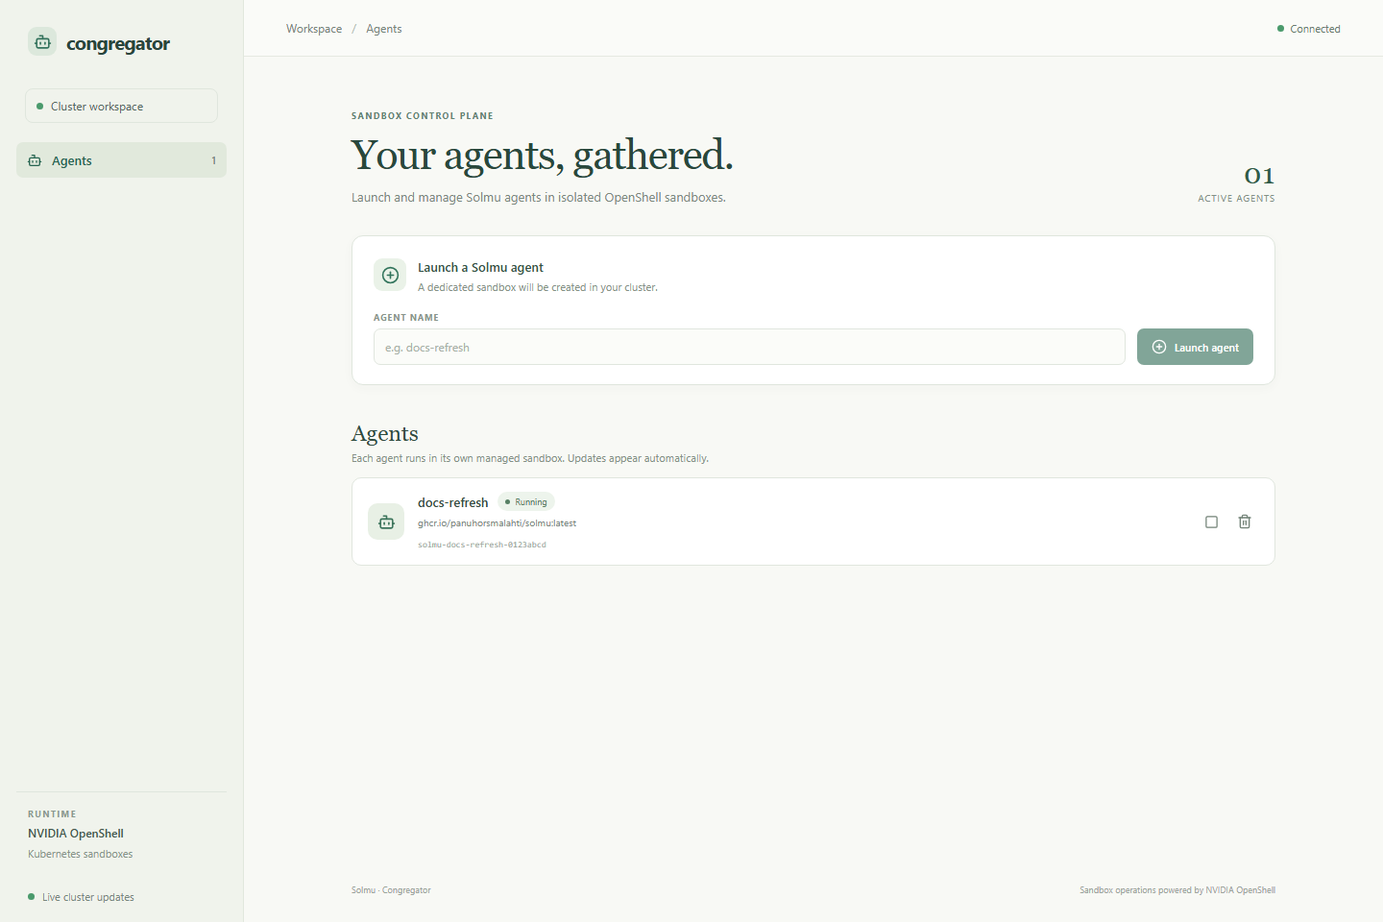
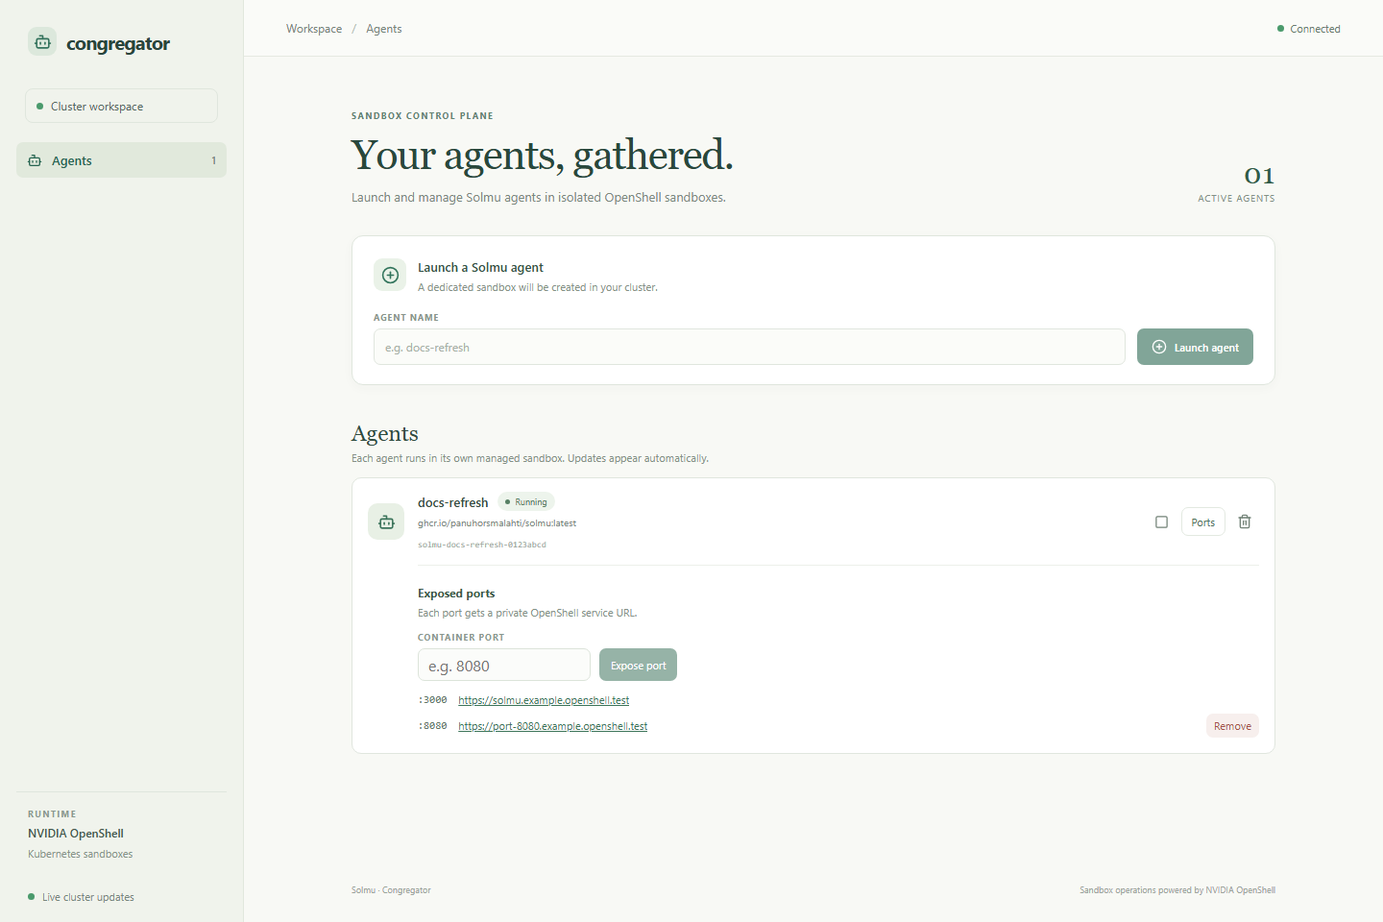
Add sandbox port ingress controls to Congregator

Changed region(s): [[0.3125, 0.625, 0.5, 0.8125], [0.875, 0.7812, 0.9062, 0.8125], [0.8438, 0.5625, 0.875, 0.5938]]

diff --git a/cloud/congregator/web/src/style.css b/cloud/congregator/web/src/style.css
@@ -1,2 +1,3 @@
 :root{font-family:Inter,"Segoe UI",sans-serif;color:#253a34;background:#f8f9f5;font-synthesis:none;font-optical-sizing:auto}*{box-sizing:border-box}body{margin:0;min-width:720px}button,input{font:inherit}button{cursor:pointer}.shell{height:100dvh;display:flex;overflow:hidden}.sidebar{width:254px;background:#f0f3ec;border-right:1px solid #e1e7dd;padding:28px 17px 19px;display:flex;flex-direction:column;flex-shrink:0}.brand{display:flex;align-items:center;gap:10px;padding:0 12px;color:#29453b;text-decoration:none;font-size:20px;font-weight:650;letter-spacing:-.8px}.brand-icon{width:30px;height:30px;display:grid;place-items:center;border-radius:9px;background:#dce8dc;color:#34735d}.workspace{margin:34px 9px 20px;padding:9px 11px;border:1px solid #dfe6dd;border-radius:8px;color:#54675d;font-size:12px;display:flex;align-items:center;gap:8px}.workspace-dot,.live-dot{width:7px;height:7px;border-radius:50%;background:#4a9a6c;display:inline-block}.sidebar nav{display:grid;gap:4px}.sidebar nav a{height:37px;padding:0 11px;border-radius:7px;display:flex;align-items:center;gap:10px;color:#66776c;text-decoration:none;font-size:13px}.sidebar nav .nav-active{background:#e1e9dc;color:#276551;font-weight:600}.nav-count{margin-left:auto;font-size:11px;color:#718076}.side-note{margin-top:auto;padding:16px 12px;border-top:1px solid #dfe6dd;display:grid;gap:6px}.side-label,.eyebrow{font-size:9px;letter-spacing:1.4px;font-weight:700;color:#8a988e}.runtime-name{font-size:12px;color:#43574c;font-weight:550}.runtime-detail{font-size:11px;color:#879389}.sidebar-footer{padding:14px 12px 0;display:flex;align-items:center;gap:8px;color:#78877d;font-size:11px}.main{flex:1;min-width:0;overflow:auto}.topbar{height:59px;padding:0 44px;border-bottom:1px solid #e5e9e1;display:flex;align-items:center;justify-content:space-between;background:#fafbf8}.crumb{font-size:12px;color:#76857a}.crumb span{padding:0 7px;color:#b2bbb3}.top-status{font-size:11px;color:#697a6e;display:flex;align-items:center;gap:7px}.content{max-width:1050px;padding:55px 44px 28px;margin:0 auto;min-height:calc(100% - 59px);display:flex;flex-direction:column}.heading-row{display:flex;align-items:end;justify-content:space-between;margin-bottom:32px}.eyebrow{margin:0 0 12px;color:#628372}.heading-row h1{font:400 43px/1.1 Georgia,serif;letter-spacing:-1.3px;color:#29483c;margin:0}.lede{font-size:13px;color:#7b897e;margin:11px 0 0}.agent-count{display:grid;text-align:right;gap:1px;color:#829086;font-size:10px;text-transform:uppercase;letter-spacing:.8px}.agent-count strong{font:400 30px Georgia,serif;color:#315c49}.launch-card{border:1px solid #dfe6dd;border-radius:12px;background:#fff;padding:20px 22px;margin-bottom:37px;box-shadow:0 3px 12px #314e3b08}.launch-copy{display:flex;gap:12px;align-items:center;margin-bottom:18px}.launch-icon{width:34px;height:34px;border-radius:9px;background:#eaf2e8;color:#32745c;display:grid;place-items:center}.launch-copy strong{font-size:13px;font-weight:600;color:#345346}.launch-copy p{margin:4px 0 0;font-size:11px;color:#869287}.launch-fields{display:grid;grid-template-columns:minmax(180px,1fr) auto;gap:12px;align-items:end}.launch-fields label{display:grid;gap:6px}.launch-fields label>span{font-size:9px;color:#89958b;font-weight:700;letter-spacing:.9px}.launch-fields small{font-size:8px;color:#9ba69d;font-weight:500;letter-spacing:.2px}.launch-fields input{width:100%;height:38px;border:1px solid #e0e6de;border-radius:7px;background:#fbfcf9;padding:0 11px;outline:none;color:#364b40;font-size:12px}.launch-fields input:focus{border-color:#88aa92;box-shadow:0 0 0 3px #4d8c6314}.launch-fields input::placeholder{color:#a7b0a7}.launch-button{height:38px;padding:0 15px;border:0;border-radius:7px;background:#2e6b54;color:white;display:flex;align-items:center;justify-content:center;gap:8px;font-size:11px;font-weight:600;white-space:nowrap}.launch-button:hover{background:#245a46}.launch-button:disabled{opacity:.6;cursor:default}.section-heading{display:flex;justify-content:space-between;align-items:center;margin-bottom:13px}.section-heading h2{font:400 23px Georgia,serif;margin:0;color:#304c40}.section-heading p{font-size:11px;color:#849086;margin:5px 0 0}.icon-button{width:30px;height:30px;border:1px solid #e1e7df;background:transparent;border-radius:7px;color:#89968c}.icon-button:disabled{cursor:default}.error-banner{padding:11px 14px;margin-bottom:12px;border:1px solid #f1d1c9;background:#fff6f3;border-radius:8px;color:#a34232;font-size:12px}.loading,.empty{flex:1;min-height:240px;display:grid;align-content:center;justify-items:center;text-align:center;color:#7c8a7e;font-size:12px;gap:10px}.empty-icon{width:50px;height:50px;border-radius:15px;background:#e9efe6;color:#6e947b;display:grid;place-items:center}.empty h3{font:400 20px Georgia,serif;color:#395748;margin:2px 0 0}.empty p{max-width:310px;line-height:1.6;margin:0;color:#859187}.agent-list{display:grid;gap:9px}.agent-card{min-height:78px;padding:14px 16px;border:1px solid #e0e6de;border-radius:10px;background:white;display:flex;align-items:center;gap:14px}.agent-mark{width:38px;height:38px;flex:none;display:grid;place-items:center;border-radius:10px;background:#e8f0e5;color:#3b745b}.agent-info{min-width:0;flex:1}.agent-title{display:flex;align-items:center;gap:10px}.agent-title h3{margin:0;font-size:13px;font-weight:600;color:#334b3e}.agent-info p{margin:5px 0 2px;color:#79877c;font-size:10px;overflow:hidden;text-overflow:ellipsis;white-space:nowrap}.agent-info small{color:#a1aaa1;font-size:9px;font-family:ui-monospace,monospace}.status{display:inline-flex;align-items:center;gap:5px;padding:4px 8px;border-radius:99px;background:#edf4ec;color:#568064;font-size:9px}.status i{width:5px;height:5px;border-radius:50%;background:currentColor}.status-stopped{background:#f0f1ef;color:#7b847d}.status-error{background:#fbefed;color:#ba5748}.status-provisioning,.status-starting{background:#fdf4e5;color:#ae823c}.status-deleting{background:#f4effb;color:#8873ac}.agent-actions{display:flex;gap:5px}.agent-actions button{width:30px;height:30px;display:grid;place-items:center;border:1px solid transparent;border-radius:7px;background:transparent;color:#728277}.agent-actions button:hover{background:#eff4ec;color:#2f6a51}.agent-actions .delete-action:hover{background:#fff1ef;color:#b34d42}.content-footer{margin-top:auto;padding-top:31px;display:flex;justify-content:space-between;color:#9ba59b;font-size:9px}
 @keyframes spin{to{transform:rotate(360deg)}}.spin{animation:spin 1s linear infinite}@media(max-width:900px){.sidebar{width:210px}.content{padding-left:28px;padding-right:28px}.topbar{padding:0 28px}.launch-fields{grid-template-columns:1fr auto}.launch-button{grid-column:1/-1;width:max-content}.heading-row h1{font-size:36px}}@media(max-width:680px){body{min-width:0}.sidebar{width:63px;padding-left:10px;padding-right:10px}.brand{padding:0;justify-content:center;font-size:0}.brand-icon{width:34px;height:34px}.workspace,.sidebar nav a:not(.nav-active),.nav-active svg,.nav-count,.side-note,.sidebar-footer{display:none}.sidebar nav{margin-top:35px}.sidebar nav .nav-active{font-size:0;justify-content:center;padding:0}.sidebar nav .nav-active svg{display:block}.content{padding:36px 18px 20px}.topbar{padding:0 18px}.heading-row{align-items:start}.heading-row h1{font-size:31px}.agent-count{font-size:8px}.agent-count strong{font-size:23px}.launch-card{padding:17px}.launch-fields{grid-template-columns:1fr}.launch-button{grid-column:auto;width:100%}.content-footer{gap:15px;line-height:1.5}.content-footer span:last-child{text-align:right}}
+ .agent-card{flex-wrap:wrap}.agent-actions .ingress-toggle{width:auto;padding:0 10px;border-color:#e3e9e1;color:#4d6d58;font-size:11px}.ingress-panel{width:100%;margin:0 0 0 52px;padding:16px 0 2px;border-top:1px solid #edf0ea;display:grid;gap:12px}.ingress-panel>div strong{font-size:12px;color:#3c5949}.ingress-panel>div p{margin:4px 0 0;color:#849187;font-size:11px}.ingress-panel form{display:flex;align-items:end;gap:9px}.ingress-panel label{display:grid;gap:6px}.ingress-panel label span{font-size:9px;letter-spacing:1px;color:#8a988e;font-weight:700}.ingress-panel input{height:34px;width:180px;border:1px solid #dce4da;border-radius:7px;padding:0 10px;color:#354e40;background:#fbfcfa}.ingress-panel form button,.ingress-panel li button{height:34px;border:0;border-radius:7px;padding:0 12px;background:#2f6a51;color:white;font-size:11px}.ingress-panel form button:disabled{opacity:.5;cursor:default}.ingress-panel ul{list-style:none;padding:0;margin:0;display:grid;gap:7px}.ingress-panel li{display:flex;align-items:center;gap:12px;font-size:11px;color:#64776a}.ingress-panel li>span{font-family:ui-monospace,monospace}.ingress-panel li a{color:#3d755a;overflow:hidden;text-overflow:ellipsis}.ingress-panel li button{height:25px;padding:0 8px;margin-left:auto;background:#f7efed;color:#a65449}

diff --git a/cloud/congregator/web/src/App.tsx b/cloud/congregator/web/src/App.tsx
@@ -2,6 +2,7 @@ import { type FormEvent, useCallback, useEffect, useState } from 'react'
 import { Bot, CirclePlus, LoaderCircle, Play, Square, Trash2 } from 'lucide-react'
 
 type Agent = { id: string; name: string; status: string; image: string }
+type Ingress = { name: string; port: number; url: string }
 
 async function api<T>(path: string, init?: RequestInit): Promise<T> {
   const response = await fetch(`/api/v1${path}`, {
@@ -22,17 +23,25 @@ export default function App() {
   const [loading, setLoading] = useState(true)
   const [creating, setCreating] = useState(false)
   const [error, setError] = useState('')
+  const [selectedAgent, setSelectedAgent] = useState('')
+  const [ingresses, setIngresses] = useState<Record<string, Ingress[]>>({})
+  const [ports, setPorts] = useState<Record<string, string>>({})
 
   const refresh = useCallback(async () => {
     try {
-      setAgents(await api<Agent[]>('/agents'))
+      const updated = await api<Agent[]>('/agents')
+      setAgents(updated)
+      if (selectedAgent && updated.some(agent => agent.id === selectedAgent)) {
+        const exposed = await api<Ingress[]>(`/agents/${encodeURIComponent(selectedAgent)}/ingresses`)
+        setIngresses(current => ({ ...current, [selectedAgent]: exposed }))
+      }
       setError('')
     } catch (reason) {
       setError(reason instanceof Error ? reason.message : 'Could not connect to Congregator')
     } finally {
       setLoading(false)
     }
-  }, [])
+  }, [selectedAgent])
 
   useEffect(() => {
     void refresh()
@@ -61,9 +70,37 @@ export default function App() {
     setError('')
     try {
       await api(`/agents/${encodeURIComponent(agent.id)}${command === 'delete' ? '' : `/${command}`}`, { method: command === 'delete' ? 'DELETE' : 'POST' })
+      if (command === 'delete' && selectedAgent === agent.id) setSelectedAgent('')
       await refresh()
     } catch (reason) {
       setError(reason instanceof Error ? reason.message : `Could not ${command} the agent`)
+    }
+  }
+
+  async function exposePort(event: FormEvent, agent: Agent) {
+    event.preventDefault()
+    const port = Number(ports[agent.id])
+    if (!Number.isInteger(port) || port < 1 || port > 65535) {
+      setError('Enter a port between 1 and 65535')
+      return
+    }
+    setError('')
+    try {
+      await api<Ingress>(`/agents/${encodeURIComponent(agent.id)}/ingresses`, { method: 'POST', body: JSON.stringify({ port }) })
+      setPorts(current => ({ ...current, [agent.id]: '' }))
+      const exposed = await api<Ingress[]>(`/agents/${encodeURIComponent(agent.id)}/ingresses`)
+      setIngresses(current => ({ ...current, [agent.id]: exposed }))
+    } catch (reason) {
+      setError(reason instanceof Error ? reason.message : 'Could not expose this port')
+    }
+  }
+
+  async function removeIngress(agent: Agent, ingress: Ingress) {
+    try {
+      await api(`/agents/${encodeURIComponent(agent.id)}/ingresses/${encodeURIComponent(ingress.name)}`, { method: 'DELETE' })
+      setIngresses(current => ({ ...current, [agent.id]: current[agent.id]?.filter(item => item.name !== ingress.name) ?? [] }))
+    } catch (reason) {
+      setError(reason instanceof Error ? reason.message : 'Could not remove this ingress')
     }
   }
 
@@ -85,7 +122,12 @@ export default function App() {
         </form>
         <div className="section-heading"><div><h2>Agents</h2><p>Each agent runs in its own managed sandbox. Updates appear automatically.</p></div></div>
         {error && <div className="error-banner" role="alert">{error}</div>}
-        {loading ? <div className="loading"><LoaderCircle className="spin" />Connecting to cluster…</div> : agents.length === 0 ? <div className="empty"><div className="empty-icon"><Bot size={24} /></div><h3>No agents yet</h3><p>Launch your first Solmu agent. It will start in a dedicated OpenShell sandbox.</p></div> : <div className="agent-list">{agents.map(agent => <article className="agent-card" key={agent.id}><div className="agent-mark"><Bot size={19} /></div><div className="agent-info"><div className="agent-title"><h3>{agent.name}</h3><span className={`status status-${agent.status.toLowerCase()}`}><i />{agent.status}</span></div><p>{agent.image}</p><small>{agent.id}</small></div><div className="agent-actions">{agent.status === 'Stopped' ? <button onClick={() => void action(agent, 'start')} title="Start agent" aria-label={`Start ${agent.name}`}><Play size={16} /></button> : <button onClick={() => void action(agent, 'stop')} title="Stop agent" aria-label={`Stop ${agent.name}`}><Square size={15} /></button>}<button className="delete-action" onClick={() => void action(agent, 'delete')} title="Delete agent" aria-label={`Delete ${agent.name}`}><Trash2 size={16} /></button></div></article>)}</div>}
+        {loading ? <div className="loading"><LoaderCircle className="spin" />Connecting to cluster…</div> : agents.length === 0 ? <div className="empty"><div className="empty-icon"><Bot size={24} /></div><h3>No agents yet</h3><p>Launch your first Solmu agent. It will start in a dedicated OpenShell sandbox.</p></div> : <div className="agent-list">{agents.map(agent => <article className="agent-card" key={agent.id}>
+          <div className="agent-mark"><Bot size={19} /></div>
+          <div className="agent-info"><div className="agent-title"><h3>{agent.name}</h3><span className={`status status-${agent.status.toLowerCase()}`}><i />{agent.status}</span></div><p>{agent.image}</p><small>{agent.id}</small></div>
+          <div className="agent-actions">{agent.status === 'Stopped' ? <button onClick={() => void action(agent, 'start')} title="Start agent" aria-label={`Start ${agent.name}`}><Play size={16} /></button> : <button onClick={() => void action(agent, 'stop')} title="Stop agent" aria-label={`Stop ${agent.name}`}><Square size={15} /></button>}<button className="ingress-toggle" onClick={() => setSelectedAgent(current => current === agent.id ? '' : agent.id)} aria-expanded={selectedAgent === agent.id} aria-label={`Manage ingresses for ${agent.name}`}>Ports</button><button className="delete-action" onClick={() => void action(agent, 'delete')} title="Delete agent" aria-label={`Delete ${agent.name}`}><Trash2 size={16} /></button></div>
+          {selectedAgent === agent.id && <div className="ingress-panel"><div><strong>Exposed ports</strong><p>Each port gets a private OpenShell service URL.</p></div><form onSubmit={event => void exposePort(event, agent)}><label><span>CONTAINER PORT</span><input inputMode="numeric" aria-label={`Port for ${agent.name}`} value={ports[agent.id] ?? ''} onChange={event => setPorts(current => ({ ...current, [agent.id]: event.target.value }))} placeholder="e.g. 8080" /></label><button disabled={!ports[agent.id]?.trim()}>Expose port</button></form><ul>{(ingresses[agent.id] ?? []).map(ingress => <li key={ingress.name}><span>:{ingress.port}</span><a href={ingress.url} target="_blank" rel="noreferrer">{ingress.url}</a>{ingress.name !== 'solmu' && <button onClick={() => void removeIngress(agent, ingress)} aria-label={`Remove port ${ingress.port}`}>Remove</button>}</li>)}</ul></div>}
+        </article>)}</div>}
         <footer className="content-footer"><span>Solmu · Congregator</span><span>Sandbox operations powered by NVIDIA OpenShell</span></footer>
       </section>
     </main>

diff --git a/e2e/congregator/agents.spec.ts b/e2e/congregator/agents.spec.ts
@@ -9,7 +9,7 @@ test('launch, stop, start, and delete a Solmu sandbox', async ({ page }) => {
   await page.route('**/api/v1/agents**', async route => {
     const request = route.request()
     const path = new URL(request.url()).pathname
-    if (request.method() === 'GET') return route.fulfill({ json: agents })
+    if (request.method() === 'GET' && path === '/api/v1/agents') return route.fulfill({ json: agents })
     if (request.method() === 'POST' && path === '/api/v1/agents') {
       const body = request.postDataJSON()
       operations.push(`create:${body.name}`)
@@ -40,13 +40,6 @@ test('launch, stop, start, and delete a Solmu sandbox', async ({ page }) => {
   await page.getByRole('button', { name: 'Launch agent' }).click()
   await expect(page.getByRole('heading', { name: 'docs-refresh' })).toBeVisible()
   await expect(page.getByText('Running')).toBeVisible()
-
-  if (process.env.SOLMU_CAPTURE_SCREENSHOTS) {
-    await mkdir('docs/screenshots', { recursive: true })
-    await page.setViewportSize({ width: 1440, height: 960 })
-    await page.screenshot({ path: 'docs/screenshots/congregator.png', fullPage: true })
-  }
-
   await page.getByRole('button', { name: 'Stop docs-refresh' }).click()
   await expect(page.getByText('Stopped')).toBeVisible()
   await page.getByRole('button', { name: 'Start docs-refresh' }).click()
@@ -54,6 +47,49 @@ test('launch, stop, start, and delete a Solmu sandbox', async ({ page }) => {
   await page.getByRole('button', { name: 'Delete docs-refresh' }).click()
   await expect(page.getByText('No agents yet')).toBeVisible()
   expect(operations).toEqual(['create:docs-refresh', 'stop', 'start', 'delete'])
+})
+
+test('expose and remove an agent port with its gateway ingress URL', async ({ page }) => {
+  const agent = { ...readyAgent }
+  let exposed = [{ name: 'solmu', port: 3000, url: 'https://solmu.example.openshell.test' }]
+  const operations: string[] = []
+  await page.route('**/api/v1/agents**', async route => {
+    const request = route.request()
+    const path = new URL(request.url()).pathname
+    if (request.method() === 'GET' && path === '/api/v1/agents') return route.fulfill({ json: [agent] })
+    if (request.method() === 'GET' && path.endsWith('/ingresses')) return route.fulfill({ json: exposed })
+    if (request.method() === 'POST' && path.endsWith('/ingresses')) {
+      const { port } = request.postDataJSON()
+      const ingress = { name: `port-${port}`, port, url: `https://port-${port}.example.openshell.test` }
+      exposed = [...exposed.filter(item => item.port !== port), ingress]
+      operations.push(`expose:${port}`)
+      return route.fulfill({ status: 201, json: ingress })
+    }
+    if (request.method() === 'DELETE' && path.includes('/ingresses/')) {
+      const service = decodeURIComponent(path.split('/').at(-1)!)
+      exposed = exposed.filter(item => item.name !== service)
+      operations.push(`unexpose:${service}`)
+      return route.fulfill({ status: 204, body: '' })
+    }
+    return route.fulfill({ status: 405 })
+  })
+  await page.goto('/')
+  await page.getByRole('button', { name: 'Manage ingresses for docs-refresh' }).click()
+  await expect(page.getByRole('link', { name: 'https://solmu.example.openshell.test' })).toBeVisible()
+  await page.getByLabel('Port for docs-refresh').fill('8080')
+  await page.getByRole('button', { name: 'Expose port' }).click()
+  const ingressUrl = 'https://port-8080.example.openshell.test'
+  await expect(page.getByRole('link', { name: ingressUrl })).toHaveAttribute('target', '_blank')
+
+  if (process.env.SOLMU_CAPTURE_SCREENSHOTS) {
+    await mkdir('docs/screenshots', { recursive: true })
+    await page.setViewportSize({ width: 1440, height: 960 })
+    await page.screenshot({ path: 'docs/screenshots/congregator.png', fullPage: true })
+  }
+
+  await page.getByRole('button', { name: 'Remove port 8080' }).click()
+  await expect(page.getByRole('link', { name: ingressUrl })).toHaveCount(0)
+  expect(operations).toEqual(['expose:8080', 'unexpose:port-8080'])
 })
 
 test('agent list reconnects and updates automatically', async ({ page }) => {

diff --git a/cloud/congregator/backend/src/main.rs b/cloud/congregator/backend/src/main.rs
@@ -7,6 +7,7 @@ use axum::{
     response::{IntoResponse, Response},
     routing::{get, post},
 };
+use openshell_sdk::raw::proto::{DeleteServiceRequest, ExposeServiceRequest, ListServicesRequest};
 use openshell_sdk::{
     AuthConfig, ClientConfig, DeleteOptions, ListOptions, OpenShellClient, SandboxPhase,
     SandboxSpec, ServiceExposure,
@@ -35,6 +36,19 @@ struct Agent {
 #[serde(deny_unknown_fields)]
 struct CreateAgent {
     name: String,
+}
+
+#[derive(Debug, Deserialize)]
+#[serde(deny_unknown_fields)]
+struct ExposeIngress {
+    port: u16,
+}
+
+#[derive(Debug, Serialize)]
+struct AgentIngress {
+    name: String,
+    port: u16,
+    url: String,
 }
 
 #[derive(Debug, Serialize)]
@@ -102,6 +116,14 @@ fn api(state: AppState) -> Router {
         .route("/api/v1/agents/{name}", get(get_agent).delete(delete_agent))
         .route("/api/v1/agents/{name}/stop", post(stop_agent))
         .route("/api/v1/agents/{name}/start", post(start_agent))
+        .route(
+            "/api/v1/agents/{name}/ingresses",
+            get(list_ingresses).post(create_ingress),
+        )
+        .route(
+            "/api/v1/agents/{name}/ingresses/{service}",
+            axum::routing::delete(delete_ingress),
+        )
         .with_state(state)
 }
 
@@ -260,6 +282,103 @@ async fn start_agent(
         image: state.image,
         created_at: None,
     }))
+}
+
+async fn list_ingresses(
+    State(state): State<AppState>,
+    Path(name): Path<String>,
+) -> Result<Json<Vec<AgentIngress>>, ApiError> {
+    require_managed(&state, &name).await?;
+    let response = state
+        .openshell
+        .raw_grpc_fresh()
+        .await
+        .map_err(gateway_error)?
+        .list_services(ListServicesRequest {
+            sandbox: name,
+            ..Default::default()
+        })
+        .await
+        .map_err(gateway_error)?
+        .into_inner();
+    Ok(Json(
+        response
+            .services
+            .into_iter()
+            .filter_map(|service| {
+                let endpoint = service.endpoint?;
+                Some(AgentIngress {
+                    name: endpoint.name,
+                    port: u16::try_from(endpoint.target_port).ok()?,
+                    url: service.url,
+                })
+            })
+            .collect(),
+    ))
+}
+
+async fn create_ingress(
+    State(state): State<AppState>,
+    Path(name): Path<String>,
+    Json(input): Json<ExposeIngress>,
+) -> Result<(StatusCode, Json<AgentIngress>), ApiError> {
+    require_managed(&state, &name).await?;
+    if input.port == 0 {
+        return Err(ApiError(
+            StatusCode::BAD_REQUEST,
+            "Choose a port between 1 and 65535".into(),
+        ));
+    }
+    let service = format!("port-{}", input.port);
+    let response = state
+        .openshell
+        .raw_grpc_fresh()
+        .await
+        .map_err(gateway_error)?
+        .expose_service(ExposeServiceRequest {
+            sandbox: name,
+            name: service.clone(),
+            target_port: u32::from(input.port),
+            domain: true,
+            ..Default::default()
+        })
+        .await
+        .map_err(gateway_error)?
+        .into_inner();
+    Ok((
+        StatusCode::CREATED,
+        Json(AgentIngress {
+            name: service,
+            port: input.port,
+            url: response.url,
+        }),
+    ))
+}
+
+async fn delete_ingress(
+    State(state): State<AppState>,
+    Path((name, service)): Path<(String, String)>,
+) -> Result<StatusCode, ApiError> {
+    require_managed(&state, &name).await?;
+    if service == "solmu" {
+        return Err(ApiError(
+            StatusCode::BAD_REQUEST,
+            "The Solmu service ingress cannot be removed".into(),
+        ));
+    }
+    state
+        .openshell
+        .raw_grpc_fresh()
+        .await
+        .map_err(gateway_error)?
+        .delete_service(DeleteServiceRequest {
+            sandbox: name,
+            name: service,
+            ..Default::default()
+        })
+        .await
+        .map_err(gateway_error)?;
+    Ok(StatusCode::NO_CONTENT)
 }
 
 async fn require_managed(state: &AppState, name: &str) -> Result<(), ApiError> {

diff --git a/docs/congregator.md b/docs/congregator.md
@@ -60,6 +60,14 @@ through OpenShell. Configure an LLM provider in OpenShell and, if needed, set
 is the published Solmu container image. Override it with `agent.image` if you
 publish a custom Solmu image.
 
+Open **Ports** on an agent to view its service URLs or expose another container
+port. Enter the port the application listens on inside the sandbox. Congregator
+registers a named service endpoint with OpenShell and displays its URL. Remove
+endpoints from the same panel. The built-in Solmu endpoint on port `3000` is
+managed automatically and cannot be removed there. Browser-facing URLs require
+OpenShell's service-domain routing, DNS, and TLS to be configured for the
+gateway; access follows the gateway's configured policy.
+
 ## Configuration
 
 | Setting | Default | Purpose |
@@ -84,6 +92,9 @@ The service exposes:
 | `POST` | `/api/v1/agents/{sandbox-name}/stop` | Stop its sandbox |
 | `POST` | `/api/v1/agents/{sandbox-name}/start` | Start its sandbox |
 | `DELETE` | `/api/v1/agents/{sandbox-name}` | Delete the agent and sandbox |
+| `GET` | `/api/v1/agents/{sandbox-name}/ingresses` | List exposed service URLs |
+| `POST` | `/api/v1/agents/{sandbox-name}/ingresses` | Expose a sandbox port using `{ "port": 8080 }` |
+| `DELETE` | `/api/v1/agents/{sandbox-name}/ingresses/{service-name}` | Remove an exposed port endpoint |
 | `GET` | `/healthz` | Readiness and liveness probe |
 
 Congregator only lists and mutates sandboxes carrying its managed label, so it
